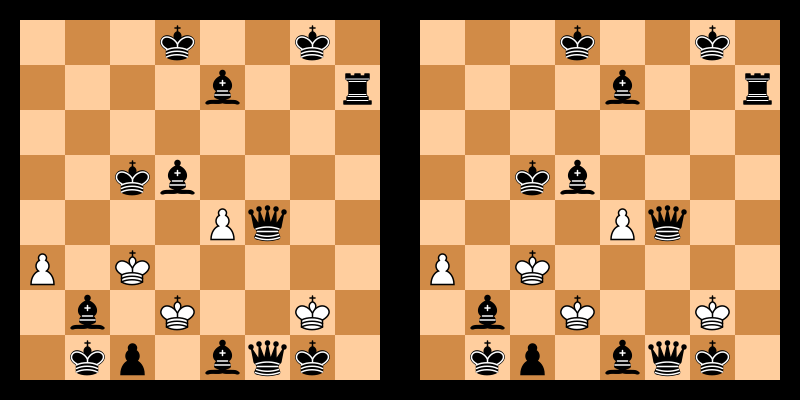
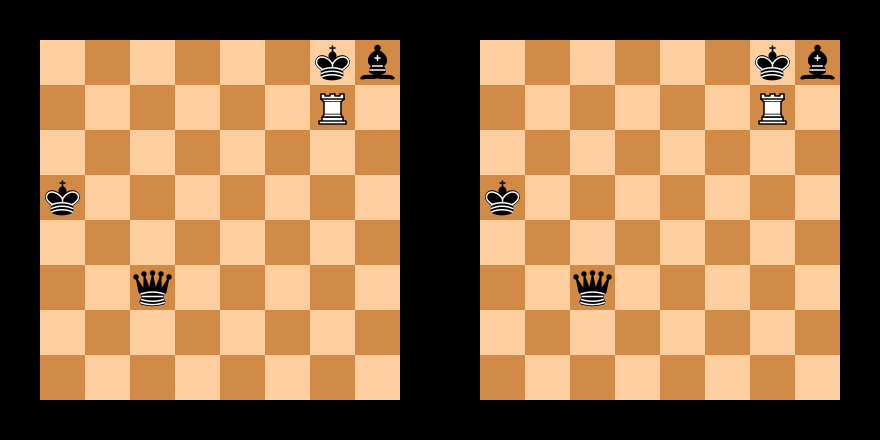
final chessboards

diff --git a/chess_im.py b/chess_im.py
@@ -15,7 +15,7 @@ def get_concat_h(im1, im2):
 
 
 def gen_first_board(nb_pieces):
-    board_ = chess.Board('8/8/8/8/8/8/8/8 w - - 0 1')
+    board = chess.Board('8/8/8/8/8/8/8/8 w - - 0 1')
     cases_liste = ["a1", "a2", "a3", "a4", "a5", "a6", "a7", "a8", "b1", "b2", "b3", "b4", "b5", "b6", "b7", "b8", "c1",
                    "c2", "c3", "c4", "c5", "c6", "c7", "c8", "d1", "d2", "d3", "d4", "d5", "d6", "d7", "d8", "e1", "e2",
                    "e3", "e4", "e5", "e6", "e7", "e8", "f1", "f2", "f3", "f4", "f5", "f6", "f7", "f8", "g1", "g2", "g3",
@@ -25,59 +25,61 @@ def gen_first_board(nb_pieces):
     for j in range(nb_pieces):
         c = random.choice(cases_liste)
         p = random.choice(piece_liste)
-        board_.set_piece_at(square=chess.SQUARE_NAMES.index(c), piece=chess.Piece.from_symbol(p))
+        board.set_piece_at(square=chess.SQUARE_NAMES.index(c), piece=chess.Piece.from_symbol(p))
         cases_liste.remove(c)
 
-    board_svg = chess.svg.board(board_, coordinates=False)
+    board_svg = chess.svg.board(board, coordinates=False)
     svg2png(bytestring=board_svg,
-            write_to=f'positions/chessboard_{i}-0.png')
+            write_to=f'positions/chessboard_{i}_0.png')
 
-    im1 = Image.open(f'positions/chessboard_{i}-0.png')
+    im1 = Image.open(f'positions/chessboard_{i}_0.png')
     im1 = ImageOps.expand(im1, border=20, fill=0)
-    return board_
+    return board, im1
 
 
-def add_diff():
-    square = random.choice(chess.SQUARE_NAMES)
-    piece = random.choice(chess.PIECE_SYMBOLS[1:])
-    board_bis = board_
-    if board_.piece_at(square=chess.SQUARE_NAMES.index(square)) is not None:  # if there's a piece on the square
-        board_bis.remove_piece_at(square=chess.SQUARE_NAMES.index(square))
-    else:
-        board_bis.set_piece_at(square=chess.SQUARE_NAMES.index(square),
-                               piece=chess.Piece.from_symbol(piece))  # add a piece
-    return board_bis
+def add_differences(number_difference, board, numero_img):
+    no_remove = []
+    for j in range(number_difference):
+        square = random.choice(chess.SQUARE_NAMES)
+        piece = random.choice(chess.PIECE_SYMBOLS[1:])
+        print(square, piece)
+        while square in no_remove:
+            square = random.choice(chess.SQUARE_NAMES)
+        if board.piece_at(square=chess.SQUARE_NAMES.index(square)) is not None:
+            board.remove_piece_at(square=chess.SQUARE_NAMES.index(square))
+        else:
+            board.set_piece_at(square=chess.SQUARE_NAMES.index(square),
+                               piece=chess.Piece.from_symbol(piece))
+            no_remove.append(square)
+        print(no_remove)
+    board_svg = chess.svg.board(board, coordinates=False)
+    svg2png(bytestring=board_svg,
+            write_to=f'positions/chessboard_{numero_img}_{number_difference}.png')
+    im2 = Image.open(f'positions/chessboard_{numero_img}_{number_difference}.png')
+    im2 = ImageOps.expand(im2, border=20, fill=0)
+    get_concat_h(im_orig, im2).save(f'Chess_PNG/img_{numero_img}_{number_difference}.png')
 
 
 for i in range(76, 101):
-    L = []
-    list_diff = list(range(0, 7))
+    print(f"### Echiquier numéro {i}")
     # build and save the initial image
-    nb_pieces = random.randint(15, 20)  # J est le nombre de pieces sur l'image initiale de l'échequier
-    board_ = gen_first_board(nb_pieces)
+    nb_pieces = random.randint(3, 5)
+    board_1, im_orig = gen_first_board(nb_pieces)
+    board_2 = board_1.copy()
 
     # generate two nb of differences
-    L.append(random.choice(list_diff))
-    list_diff.remove(L[0])
-    L.append(random.choice(list_diff))
+    list_diff = list(range(0, 7))
+    L = random.sample(list_diff, 2)
+    print("L = ", L)
+    cpt = 1
 
     for nb_diff in L:
         if nb_diff == 0:
-            im1 = Image.open(f'positions/chessboard_{i}-0.png')
-            get_concat_h(im1, im1).save(f'Chess_PNG/img_{i}_{nb_diff}.png')
+            get_concat_h(im_orig, im_orig).save(f'Chess_PNG/img_{i}_0.png')
         else:
-            for diff in range(nb_diff):
-                new_board = add_diff()
-            new_board_svg = chess.svg.board(new_board, coordinates=False)
-            svg2png(bytestring=new_board_svg,
-                    write_to=f'positions/chessboard_{i}-{diff}.png')
-            get_concat_h(new_board_svg, new_board_svg).save()
+            if cpt == 1:
+                add_differences(nb_diff, board_1, i)
+            if cpt == 2:
+                add_differences(nb_diff, board_2, i)
+        cpt += 1
 
-
-            #new_board_svg = chess_differences.svg.board(new_board, coordinates=False)
-            #svg2png(bytestring=new_board_svg,
-                    #write_to=f'positions/chess14avril#{i}-{nb_diff}.png')
-            #im1 = Image.open(f'positions/chess14avril#{i}-0.png')
-            #im2 = Image.open(f'positions/chess14avril#{i}-{nb_diff}.png')
-            #get_concat_h(im1, im2).save(f'Chess_PNG/img_{i}_{nb_diff}.png')
-    print(f"### Echiquier numéro {i}")
